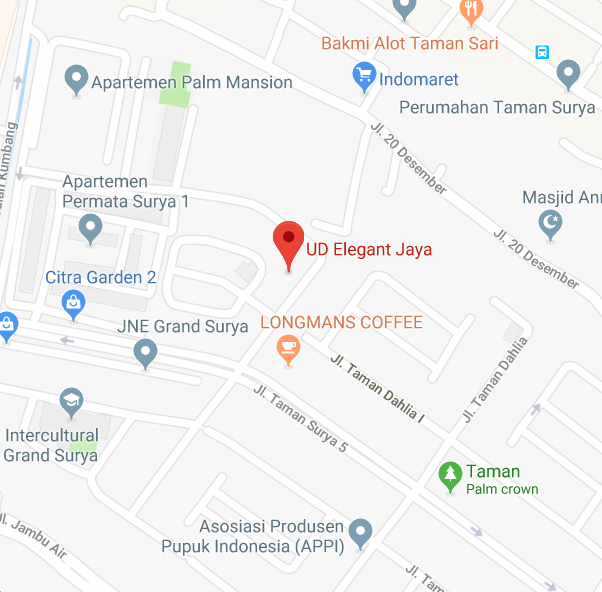
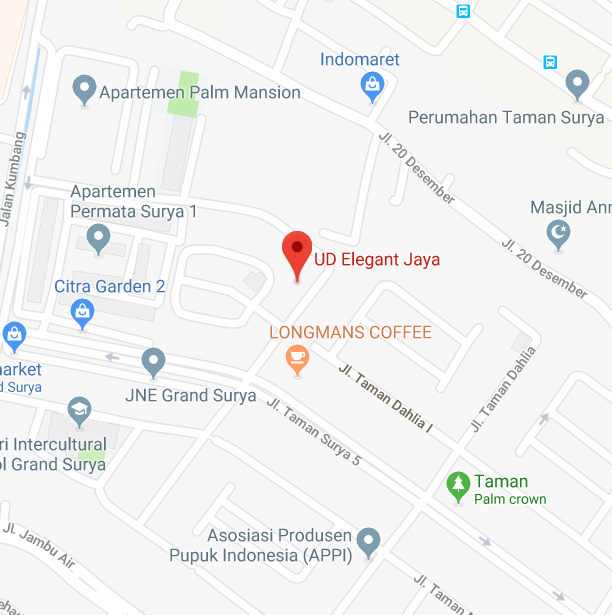
add meta tag and fix location image

diff --git a/index.html b/index.html
@@ -13,6 +13,16 @@
     <meta name="description" content="Elegant Jaya Houseware menjual berbagai perlengkapan rumah tangga baik secara grosir maupun eceran. Beroperasi dari Jakarta dan Surabaya, Elegant Houseware sudah memiliki 2 toko hingga saat ini. 1 berada di Jakarta, dan 1 nya lagi di Surabaya" />
     <meta name="keywords" content="houseware, perabotan, rumah tangga, serbet, sapu" />
     <meta name="robots" content="index, follow" />
+  
+    <meta property="og:title" content="Elegant Jaya Houseware" />
+    <meta property="og:url" content="http://www.elegant-houseware.tk/" />
+    <meta property="og:image" content="https://s3-ap-southeast-1.amazonaws.com/elegant-houseware.tk/dist/houseware.jpg">
+    <meta property="og:type" content="website" />
+  
+    <meta name="theme-color" content="#1E9E25">
+    <meta name="msapplication-navbutton-color" content="#1E9E25">
+    <meta name="apple-mobile-web-app-capable" content="yes">
+    <meta name="apple-mobile-web-app-status-bar-style" content="black-translucent">
   </head>
   <body>
     <div id="app"></div>

diff --git a/src/components/link_container.vue b/src/components/link_container.vue
@@ -40,7 +40,7 @@
           <img :src="loadImg('map_logo.png')" alt="" />
         </div>
         <div class="text">UD Elegant Jaya<br/>
-        <span class="desc-text">Ruko Royal Palem, Bl. Bl No.7, Duri Kepa<br/>Jakarta Barat</span></div>
+        <span class="desc-text">Ruko Royal Palem, Bl. Bl No.7, Duri Kepa, Jakarta Barat</span></div>
     </div>
   </div>
 </template>
